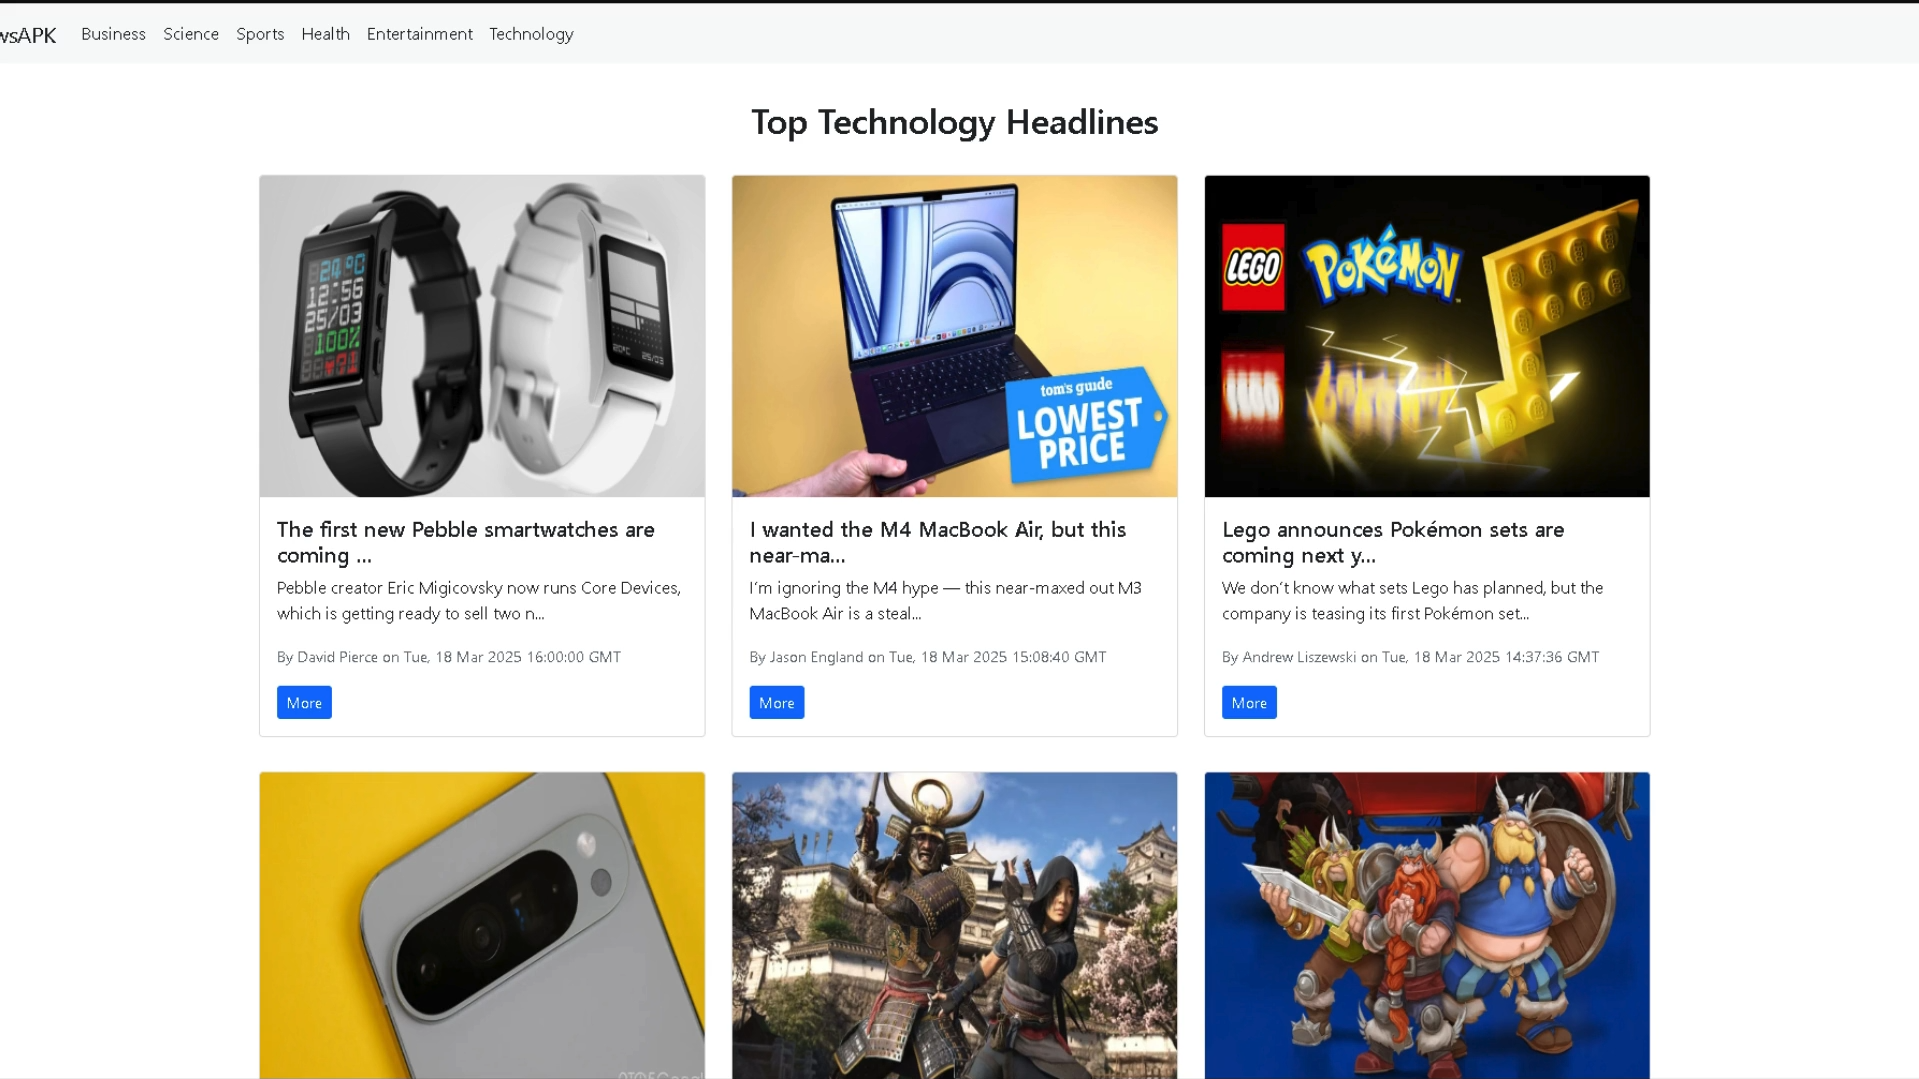
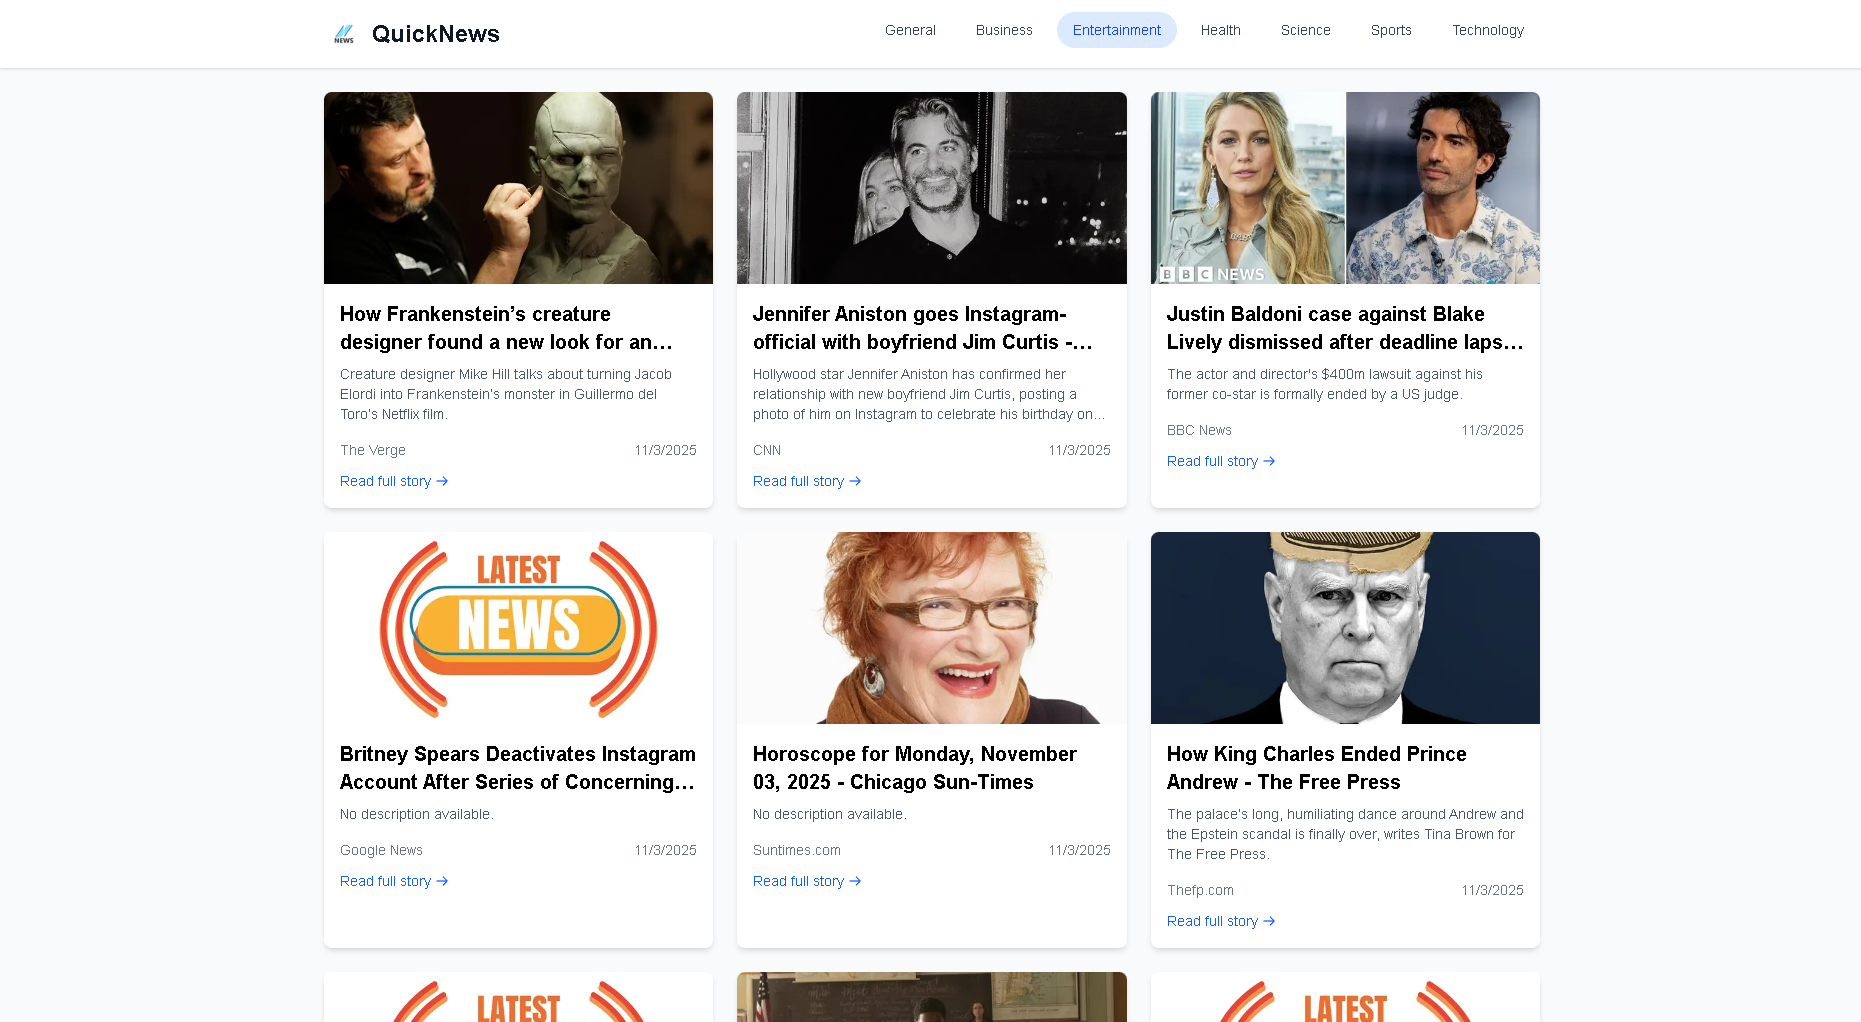
Added Demo Url

diff --git a/src/components/ProjectsSection.jsx b/src/components/ProjectsSection.jsx
@@ -6,7 +6,7 @@ const projects = [
     title: "API Toolkit",
     description: "A beautiful page for multiple API tools",
     image: "/projects/project1.png",
-    tags: ["React", "TailwindCSS", "Weather Lookup", "Currency Converter", "Phone Verification"],
+    tags: ["React", "TailwindCSS", "API Tools"],
     demoUrl: "#",
     githubUrl: "https://github.com/Aditroid/Reactjs-FetchAPI-Task",
   },
@@ -36,7 +36,7 @@ const projects = [
     description:
       "A web application that replicates the core functionality of LinkTree, allowing users to create a personalized webpage containing all their important links",
     image: "/projects/project4.png",
-    tags: ["Next.js", "TailwindCSS", "Node.js", "Express", "MongoDB"],
+    tags: ["Next.js", "Tailwind", "Express", "MongoDB"],
     demoUrl: "#",
     githubUrl: "https://github.com/Aditroid/linktree-clone",
   },
@@ -56,8 +56,8 @@ const projects = [
     description:
       "A dynamic news website that fetches and organizes the latest articles from various sources, providing users with a seamless browsing experience",
     image: "/projects/project6.png",
-    tags: ["React", "Bootstrap", "NewsAPK API"],
-    demoUrl: "#",
+    tags: ["Next.js", "Tailwind", "NewsAPK API"],
+    demoUrl: "https://quicknews-omega.vercel.app/",
     githubUrl: "https://github.com/Aditroid/News",
   },
 ];
@@ -90,36 +90,40 @@ export const ProjectsSection = () => {
                 />
               </div>
 
-              <div className="p-6">
-                <div className="flex flex-wrap gap-2 mb-4">
-                  {project.tags.map((tag) => (
-                    <span className="px-2 py-1 text-xs font-medium border rounded-full bg-secondary text-secondary-foreground">
-                      {tag}
-                    </span>
-                  ))}
+              <div className="p-6 flex flex-col h-[calc(100%-12rem)]">
+                <div className="flex-1">
+            
+                  <h3 className="text-xl font-semibold mb-2">{project.title}</h3>
+                  <p className="text-muted-foreground text-sm mb-4">
+                    {project.description}
+                  </p>
                 </div>
-
-                <h3 className="text-xl font-semibold mb-1"> {project.title}</h3>
-                <p className="text-muted-foreground text-sm mb-4">
-                  {project.description}
-                </p>
-                <div className="flex justify-between items-center">
-                  <div className="justify-end space-x-3">
-                    {/* <a
-                      href={project.demoUrl}
-                      target="_blank"
-                      className="text-foreground/80 hover:text-primary transition-colors duration-300"
-                    >
-                      <ExternalLink size={20} />
-                    </a> */}
-                    <a
-                      href={project.githubUrl}
-                      target="_blank"
-                      className="text-foreground/80 hover:text-primary transition-colors duration-300 "
-                    >
-                      <Github size={20} />
-                    </a>
+                <div className="mb-4">
+                  <div className="flex flex-wrap gap-2">
+                    {project.tags.map((tag, tagIndex) => (
+                      <span key={tagIndex} className="px-2 py-1 text-xs font-medium border rounded-full bg-secondary text-secondary-foreground">
+                        {tag}
+                      </span>
+                    ))}
                   </div>
+                </div>
+                <div className="mt-4 pt-4 border-t border-border flex justify-between items-center">
+                  <a
+                    href={project.githubUrl}
+                    target="_blank"
+                    rel="noopener noreferrer"
+                    className="text-foreground/80 hover:text-primary transition-colors duration-300"
+                  >
+                    <Github size={20} />
+                  </a>
+                  <a
+                    href={project.demoUrl}
+                    target="_blank"
+                    rel="noopener noreferrer"
+                    className="text-foreground/80 hover:text-primary transition-colors duration-300"
+                  >
+                    <ExternalLink size={20} />
+                  </a>
                 </div>
               </div>
             </div>

diff --git a/index.html b/index.html
@@ -2,7 +2,7 @@
 <html lang="en">
   <head>
     <meta charset="UTF-8" />
-    <link rel="icon" type="image/svg+xml" href="public/favicon.ico" />
+    <link rel="icon" type="image/svg+xml" href="favicon.ico" />
     <meta name="viewport" content="width=device-width, initial-scale=1.0" />
     <title>Aditya Bora Portfolio</title>
   </head>
